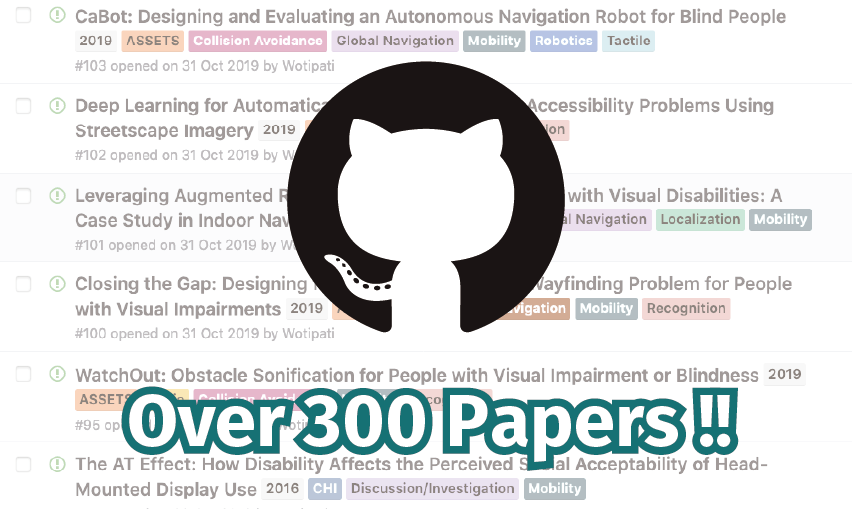
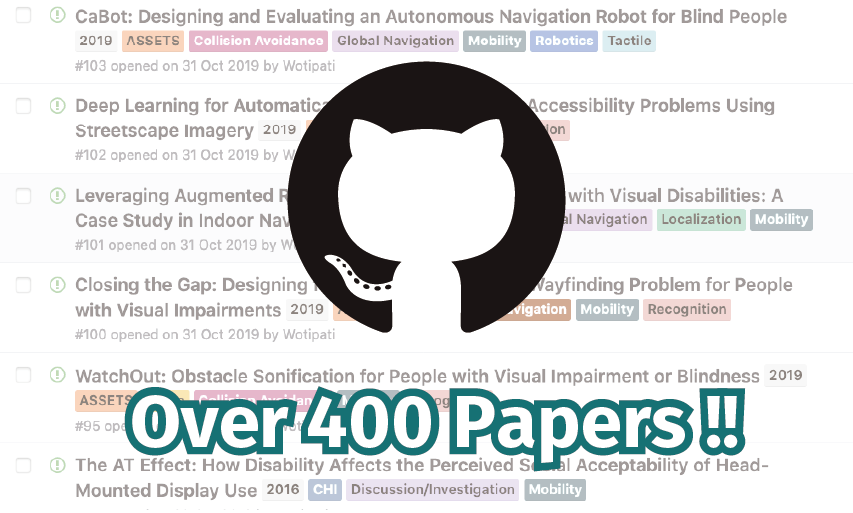
update HCI Paper list

diff --git a/index.html b/index.html
@@ -947,7 +947,7 @@
             </div>
             <div class="col-lg-8 col-sm-7 col-12 pt-2 pb-2 pl-sm-0 pr-sm-0 pl-4 pr-4">
               <div class="project_name"><a href="https://github.com/Wotipati/Blind_Accessibility_Papers" target="_blank">HCI Papers about Assistive Technologies for Visual Impairments. </a></div>
-              <div class="project_author">Github repository that lists publications (in CHI, UIST, ASSETS, TOCHI, TACCESS, and so on) about assistive technologies for visual impairments (over 300 papers!!).</div>
+              <div class="project_author">Github repository that lists publications (in CHI, UIST, ASSETS, TOCHI, TACCESS, and so on) about assistive technologies for visual impairments (over 400 papers!!).</div>
             </div>
           </div>
 
@@ -1058,7 +1058,7 @@
           <footer>
             <div class="footer">
               <div>&copy; Seita Kayukawa</div>
-              <div style="font-size: 0.75rem;">Last update: 2021.5.19</div>
+              <div style="font-size: 0.75rem;">Last update: 2021.7.3</div>
             </div>
           </footer>
         </div>
